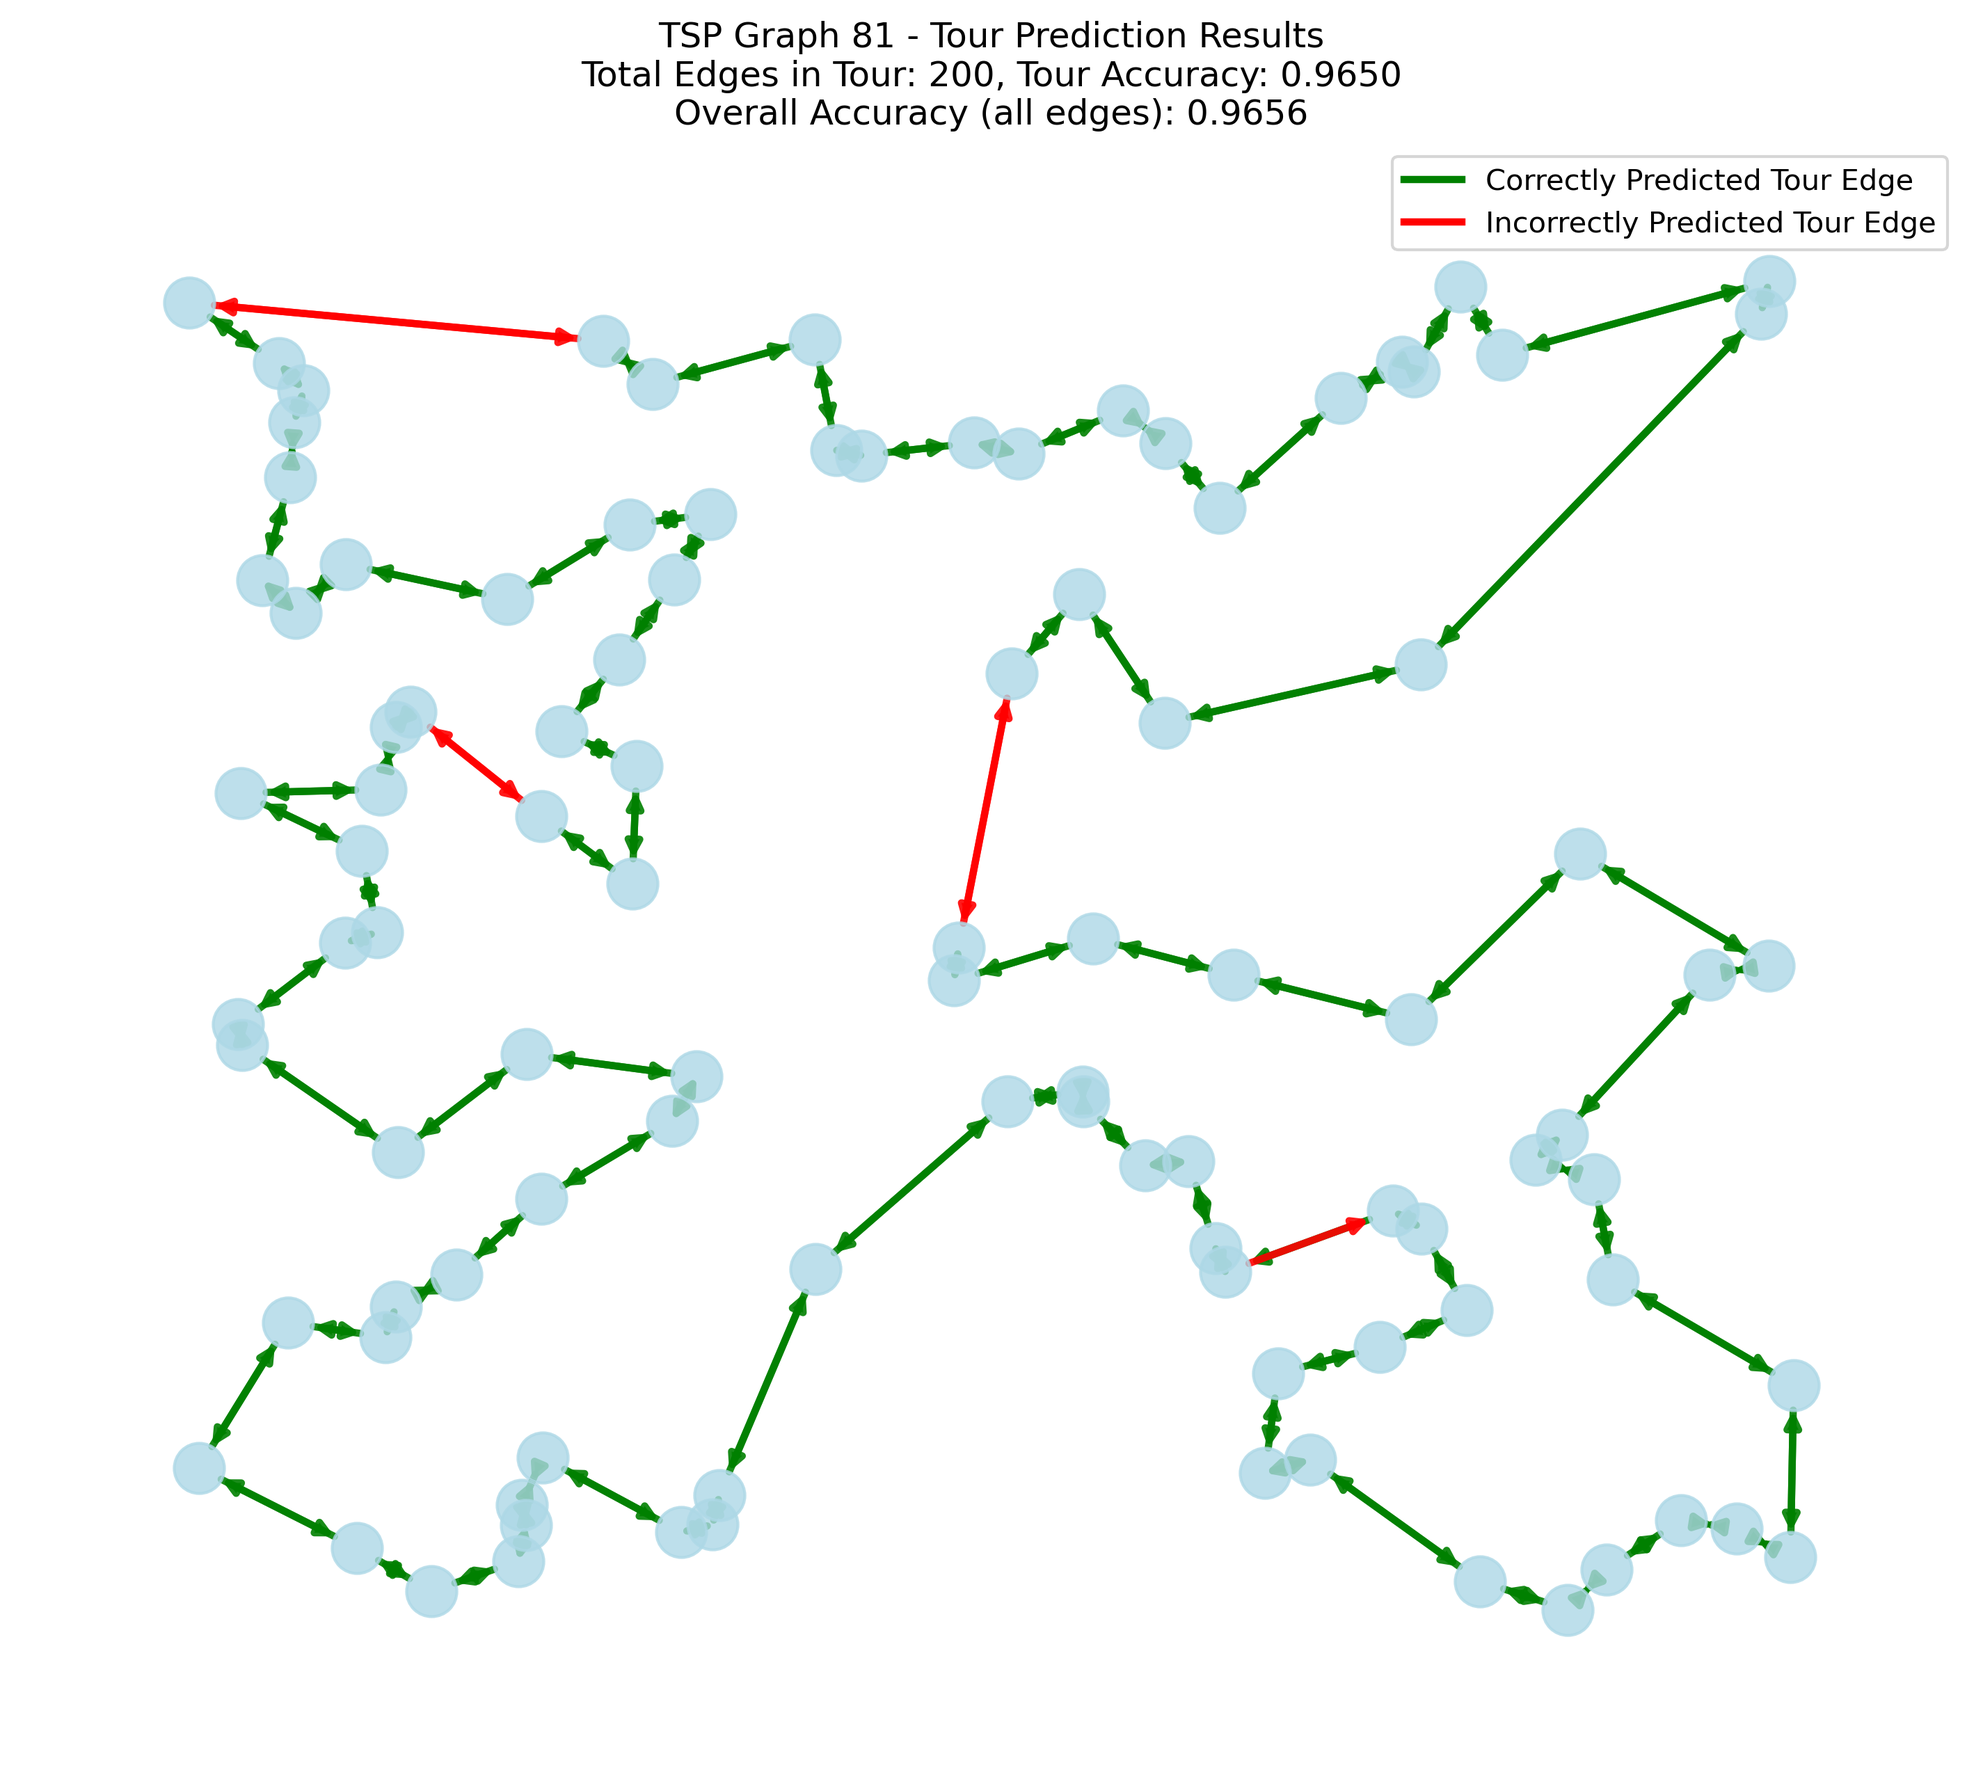
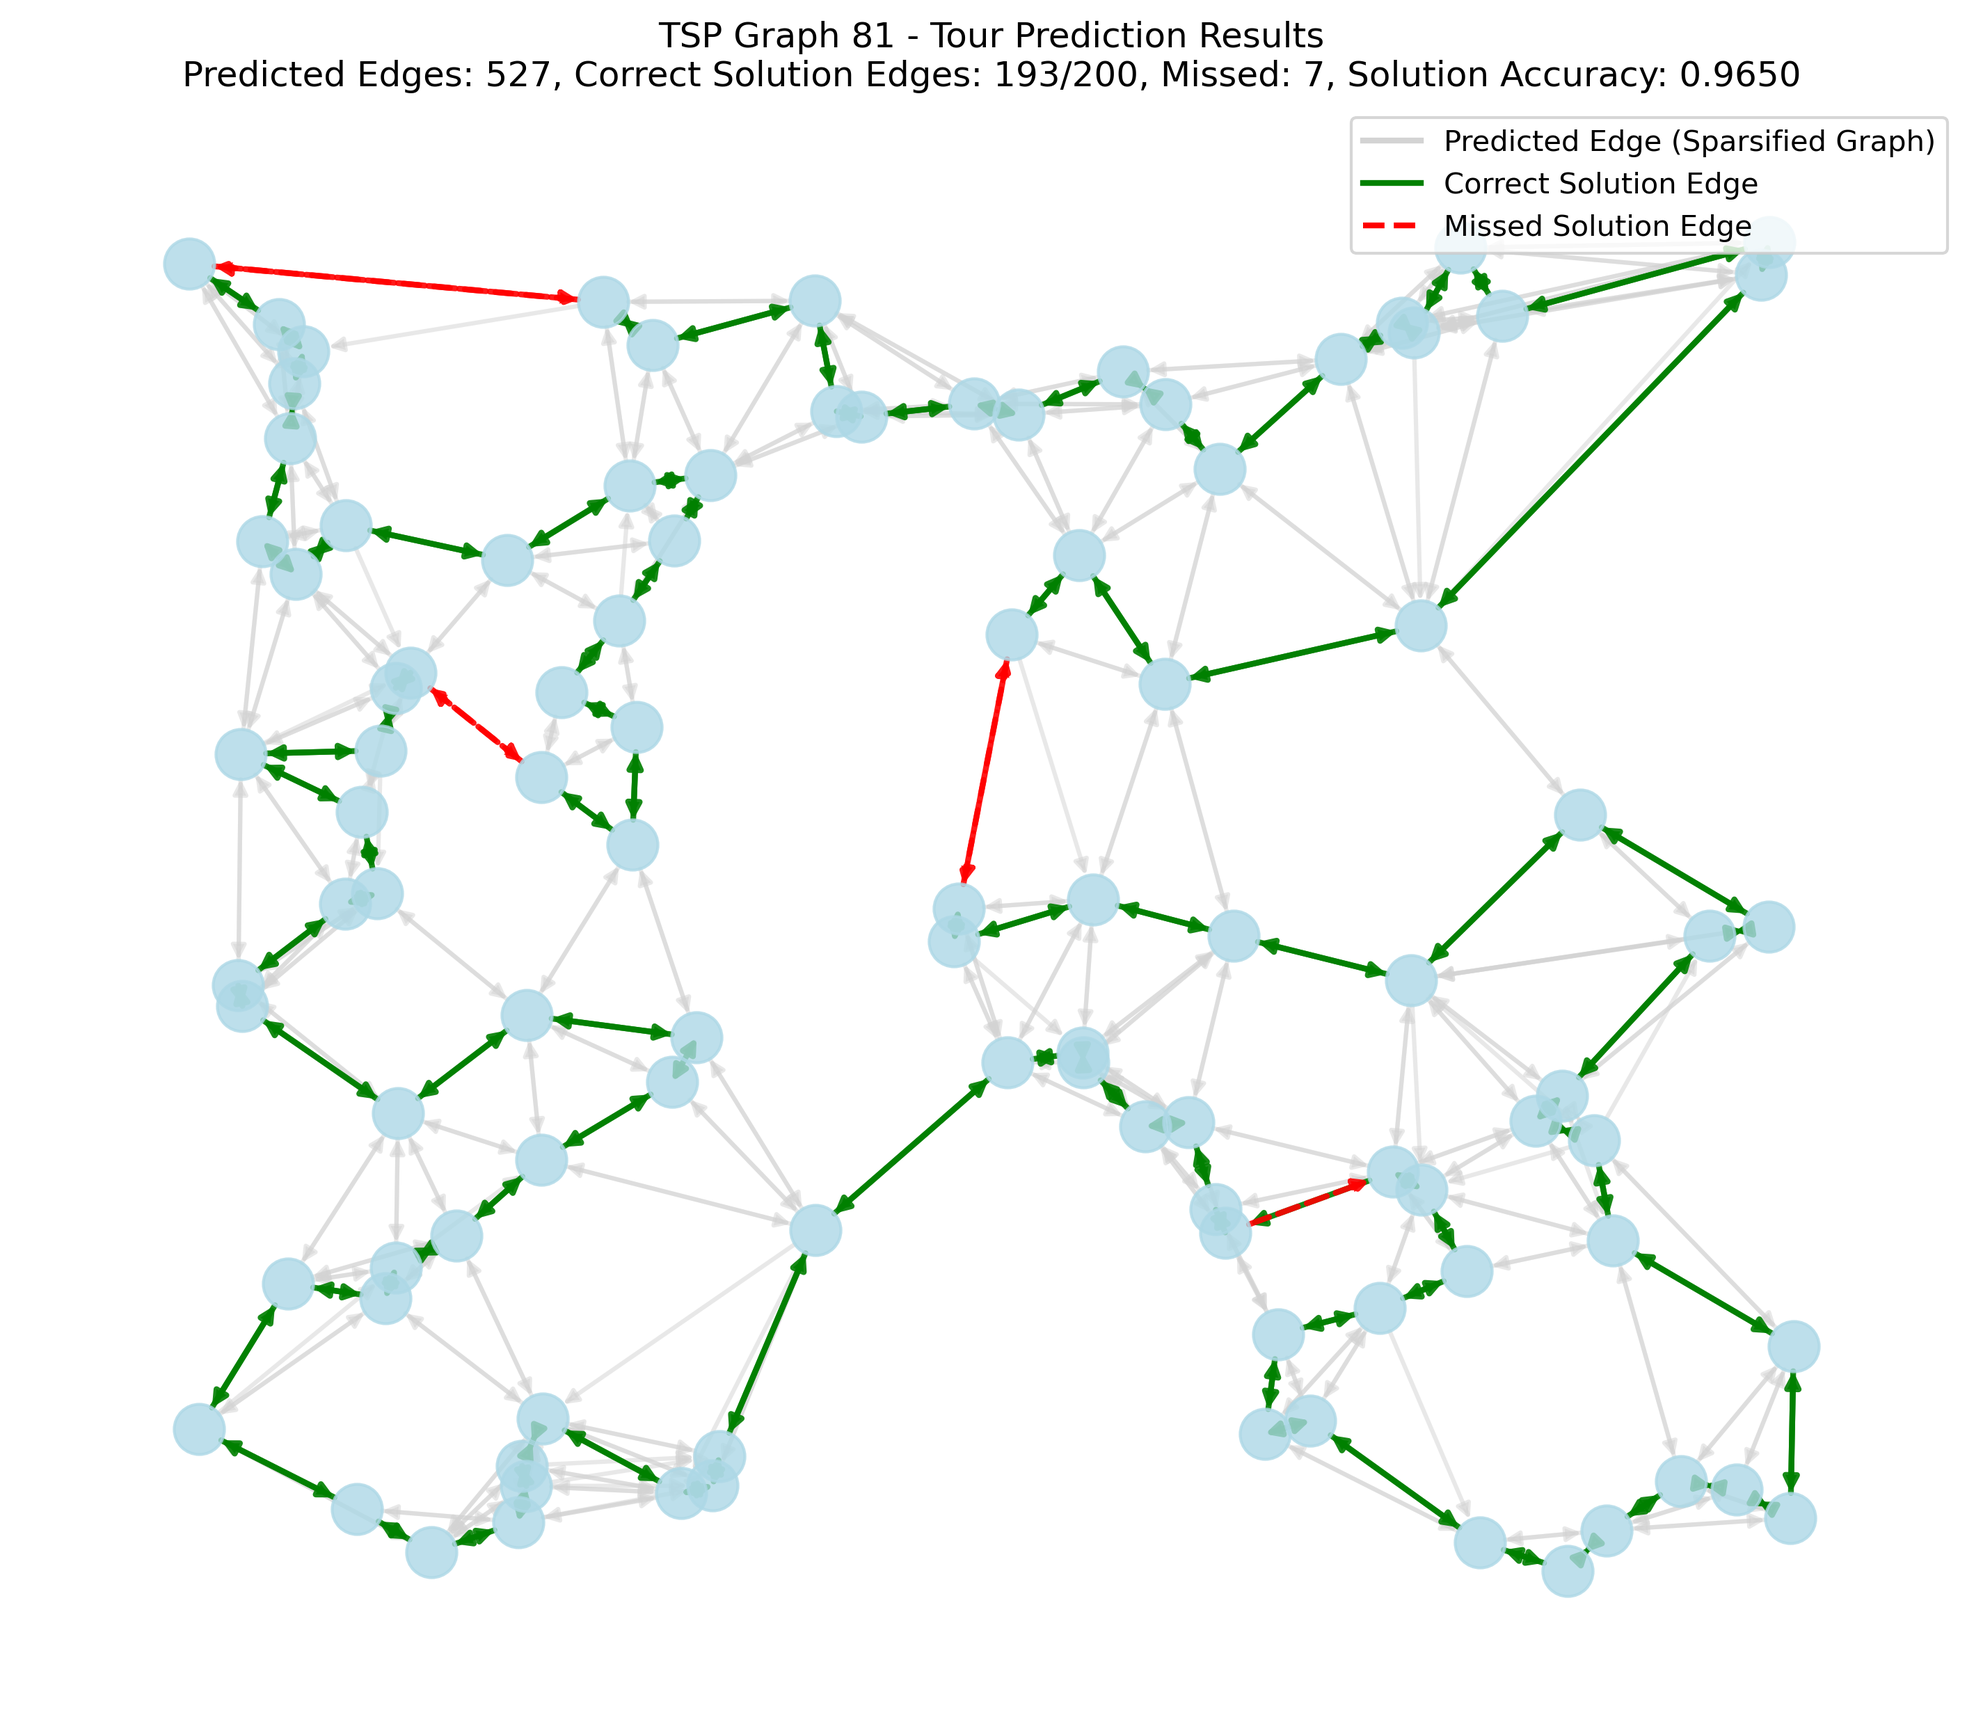
Inference works now

diff --git a/visualize_tsp_predictions.py b/visualize_tsp_predictions.py
@@ -113,8 +113,12 @@ def make_predictions(model, graph, args):
         # Prepare graph
         graph = graph.to(args.device)
         
-        # Forward pass
-        pred = model(graph)
+        # Extract node and edge features
+        h = graph.ndata['feat']
+        e = graph.edata['feat']
+        
+        # Forward pass with node and edge features
+        pred = model(graph, h, e)
         
         # Get edge predictions (binary classification)
         _, predicted = torch.max(pred, 1)
@@ -142,12 +146,14 @@ def visualize_tsp_solution(graph, edge_labels, predictions, graph_index, args):
     nx.draw_networkx_nodes(g_nx, pos, node_size=300, node_color='lightblue', alpha=0.8)
     
     # Draw edges with color coding:
-    # - Green: Predicted correctly
-    # - Red: Predicted incorrectly
+    # - Light Grey: Edges predicted as 1 (part of sparsified graph)
+    # - Green: Correctly predicted edges that are part of the actual TSP solution (label=1, pred=1)
+    # - Red: Incorrectly predicted edges that should have been part of the solution (label=1, pred=0)
     
-    # Create lists for edges based on prediction results
-    edges_correct = []
-    edges_incorrect = []
+    # Create lists for different edge categories
+    edges_predicted_as_1 = []  # All edges predicted as 1 (sparsified graph)
+    edges_correct_solution = []  # Correctly predicted edges that are part of the solution (label=1, pred=1)
+    edges_missed_solution = []  # Edges that should be in solution but were missed (label=1, pred=0)
     
     # Get original edge order to match predictions with edges
     edge_list = list(g_nx.edges())
@@ -155,36 +161,59 @@ def visualize_tsp_solution(graph, edge_labels, predictions, graph_index, args):
     for i, (u, v) in enumerate(edge_list):
         # Convert to CPU tensors
         pred = predictions[i].cpu().item()
-        label = edge_labels[i].cpu().item()
         
-        if pred == label:
-            edges_correct.append((u, v))
+        # Check if edge_labels is a tensor or numpy array and handle accordingly
+        if isinstance(edge_labels[i], torch.Tensor):
+            label = edge_labels[i].cpu().item()
         else:
-            edges_incorrect.append((u, v))
+            # Handle numpy or other types directly
+            label = edge_labels[i]
+        
+        # Edges predicted as 1 (part of sparsified graph)
+        if pred == 1:
+            edges_predicted_as_1.append((u, v))
+            
+            # If it's also part of the actual solution (label=1)
+            if label == 1:
+                edges_correct_solution.append((u, v))
+        
+        # Edges that should be in solution but were missed (label=1, pred=0)
+        elif label == 1 and pred == 0:
+            edges_missed_solution.append((u, v))
     
-    # Draw correct edges in green
-    nx.draw_networkx_edges(g_nx, pos, edgelist=edges_correct, width=1.5, alpha=0.7, edge_color='green')
+    # Draw edges predicted as 1 in light grey (sparsified graph)
+    nx.draw_networkx_edges(g_nx, pos, edgelist=edges_predicted_as_1, width=1.5, alpha=0.5, edge_color='lightgrey')
     
-    # Draw incorrect edges in red
-    nx.draw_networkx_edges(g_nx, pos, edgelist=edges_incorrect, width=1.5, alpha=0.7, edge_color='red')
+    # Draw correctly predicted solution edges in green (overwrite the grey ones)
+    nx.draw_networkx_edges(g_nx, pos, edgelist=edges_correct_solution, width=2.0, alpha=0.9, edge_color='green')
+    
+    # Draw missed solution edges in red
+    nx.draw_networkx_edges(g_nx, pos, edgelist=edges_missed_solution, width=2.0, alpha=0.9, edge_color='red', style='dashed')
     
     # Calculate metrics for this graph
-    total_edges = len(edge_list)
-    correct_edges = len(edges_correct)
-    incorrect_edges = len(edges_incorrect)
-    accuracy = correct_edges / total_edges if total_edges > 0 else 0
+    total_predicted_as_1 = len(edges_predicted_as_1)
+    total_actual_solution = sum(1 for i, _ in enumerate(edge_list) if 
+                              (isinstance(edge_labels[i], torch.Tensor) and edge_labels[i].cpu().item() == 1) or 
+                              (not isinstance(edge_labels[i], torch.Tensor) and edge_labels[i] == 1))
+    correct_solution_edges = len(edges_correct_solution)
+    missed_solution_edges = len(edges_missed_solution)
+    
+    solution_accuracy = correct_solution_edges / total_actual_solution if total_actual_solution > 0 else 0
     
     # Add a title with metrics
-    plt.title(f"TSP Graph {graph_index} - Prediction Results\n"
-              f"Total Edges: {total_edges}, Correct: {correct_edges}, "
-              f"Incorrect: {incorrect_edges}, Accuracy: {accuracy:.4f}", 
+    plt.title(f"TSP Graph {graph_index} - Tour Prediction Results\n"
+              f"Predicted Edges: {total_predicted_as_1}, "
+              f"Correct Solution Edges: {correct_solution_edges}/{total_actual_solution}, "
+              f"Missed: {missed_solution_edges}, "
+              f"Solution Accuracy: {solution_accuracy:.4f}", 
               fontsize=12)
     
     # Add legend
     from matplotlib.lines import Line2D
     legend_elements = [
-        Line2D([0], [0], color='green', lw=2, label='Correct Prediction'),
-        Line2D([0], [0], color='red', lw=2, label='Incorrect Prediction')
+        Line2D([0], [0], color='lightgrey', lw=2, label='Predicted Edge (Sparsified Graph)'),
+        Line2D([0], [0], color='green', lw=2, label='Correct Solution Edge'),
+        Line2D([0], [0], color='red', lw=2, linestyle='dashed', label='Missed Solution Edge')
     ]
     plt.legend(handles=legend_elements, loc='upper right')
     
@@ -192,14 +221,14 @@ def visualize_tsp_solution(graph, edge_labels, predictions, graph_index, args):
     plt.axis('off')
     
     # Save visualization
-    file_path = os.path.join(args.output_dir, f"tsp_graph_{graph_index}_visualization.png")
+    file_path = os.path.join(args.output_dir, f"tsp_graph_{graph_index}_tour_prediction.png")
     plt.savefig(file_path, dpi=300, bbox_inches='tight')
     print(f"Visualization saved to {file_path}")
     
     # Show the plot
     plt.show()
     
-    return accuracy, correct_edges, incorrect_edges
+    return solution_accuracy, correct_solution_edges, missed_solution_edges
 
 def create_actual_tour_visualization(graph, edge_labels, graph_index, args):
     """Create visualization of the actual TSP tour."""
@@ -224,7 +253,14 @@ def create_actual_tour_visualization(graph, edge_labels, graph_index, args):
     edge_list = list(g_nx.edges())
     tour_edges = []
     for i, (u, v) in enumerate(edge_list):
-        if edge_labels[i].cpu().item() == 1:
+        # Check if edge_labels is a tensor or numpy array and handle accordingly
+        if isinstance(edge_labels[i], torch.Tensor):
+            label = edge_labels[i].cpu().item()
+        else:
+            # Handle numpy or other types directly
+            label = edge_labels[i]
+            
+        if label == 1:
             tour_edges.append((u, v))
     
     # Draw tour edges in blue
@@ -244,6 +280,119 @@ def create_actual_tour_visualization(graph, edge_labels, graph_index, args):
     # Show the plot
     plt.show()
 
+def create_side_by_side_visualization(graph, edge_labels, predictions, graph_index, args):
+    """Create a side-by-side visualization of original graph and prediction results."""
+    # Create output directory if it doesn't exist
+    os.makedirs(args.output_dir, exist_ok=True)
+    
+    # Convert DGL graph to NetworkX for visualization
+    g_nx = graph.to_networkx(node_attrs=['feat'], edge_attrs=['feat'])
+    
+    # Get node positions from node features (x,y coordinates)
+    pos = {}
+    for node_id, node_data in g_nx.nodes(data=True):
+        pos[node_id] = node_data['feat'].cpu().numpy()
+    
+    # Create figure with two subplots side by side
+    fig, (ax1, ax2) = plt.subplots(1, 2, figsize=(24, 10))
+    fig.suptitle(f"TSP Graph {graph_index} - Original vs Prediction", fontsize=16)
+    
+    # Get original edge order to match predictions with edges
+    edge_list = list(g_nx.edges())
+    
+    # Prepare edge categories for prediction visualization
+    edges_predicted_as_1 = []  # All edges predicted as 1 (sparsified graph)
+    edges_correct_solution = []  # Correctly predicted edges that are part of the solution (label=1, pred=1)
+    edges_missed_solution = []  # Edges that should be in solution but were missed (label=1, pred=0)
+    
+    # Get tour edges for original visualization
+    tour_edges = []
+    
+    print(f"very very important {len(edge_list)}")
+    for i, (u, v) in enumerate(edge_list):
+        # Convert to CPU tensors
+        pred = predictions[i].cpu().item()
+        
+        # Check if edge_labels is a tensor or numpy array and handle accordingly
+        if isinstance(edge_labels[i], torch.Tensor):
+            label = edge_labels[i].cpu().item()
+        else:
+            # Handle numpy or other types directly
+            label = edge_labels[i]
+        
+        # For original graph - identify tour edges
+        if label == 1:
+            tour_edges.append((u, v))
+        
+        # For prediction graph - categorize edges
+        if pred == 1:
+            edges_predicted_as_1.append((u, v))
+            if label == 1:
+                edges_correct_solution.append((u, v))
+        elif label == 1 and pred == 0:
+            edges_missed_solution.append((u, v))
+    
+    # Calculate metrics
+    total_predicted_as_1 = len(edges_predicted_as_1)
+    total_actual_solution = len(tour_edges)
+    correct_solution_edges = len(edges_correct_solution)
+    missed_solution_edges = len(edges_missed_solution)
+    solution_accuracy = correct_solution_edges / total_actual_solution if total_actual_solution > 0 else 0
+    
+    # ORIGINAL GRAPH (LEFT SUBPLOT)
+    # Draw nodes
+    nx.draw_networkx_nodes(g_nx, pos, node_size=300, node_color='lightblue', alpha=0.8, ax=ax1)
+    
+    # Draw all edges in light grey
+    nx.draw_networkx_edges(g_nx, pos, width=1.0, alpha=0.3, edge_color='lightgrey', ax=ax1)
+    
+    # Draw tour edges in blue
+    nx.draw_networkx_edges(g_nx, pos, edgelist=tour_edges, width=2.0, alpha=0.9, edge_color='blue', ax=ax1)
+    
+    # Set title for original graph
+    ax1.set_title(f"Original Graph with TSP Tour\nTour Length: {total_actual_solution} edges", fontsize=12)
+    ax1.axis('off')
+    
+    # PREDICTION GRAPH (RIGHT SUBPLOT)
+    # Draw nodes
+    nx.draw_networkx_nodes(g_nx, pos, node_size=300, node_color='lightblue', alpha=0.8, ax=ax2)
+    
+    # Draw edges predicted as 1 in light grey (sparsified graph)
+    nx.draw_networkx_edges(g_nx, pos, edgelist=edges_predicted_as_1, width=1.5, alpha=0.5, edge_color='lightgrey', ax=ax2)
+    
+    # Draw correctly predicted solution edges in green
+    nx.draw_networkx_edges(g_nx, pos, edgelist=edges_correct_solution, width=2.0, alpha=0.9, edge_color='green', ax=ax2)
+    
+    # Draw missed solution edges in red
+    nx.draw_networkx_edges(g_nx, pos, edgelist=edges_missed_solution, width=2.0, alpha=0.9, edge_color='red', style='dashed', ax=ax2)
+    
+    # Set title for prediction graph
+    ax2.set_title(f"Prediction Results\nPredicted Edges: {total_predicted_as_1}, Correct: {correct_solution_edges}/{total_actual_solution}, Missed: {missed_solution_edges}\nSolution Accuracy: {solution_accuracy:.4f}", fontsize=12)
+    ax2.axis('off')
+    
+    # Add legend
+    from matplotlib.lines import Line2D
+    legend_elements = [
+        Line2D([0], [0], color='blue', lw=2, label='Actual Tour Edge'),
+        Line2D([0], [0], color='lightgrey', lw=2, label='Predicted Edge'),
+        Line2D([0], [0], color='green', lw=2, label='Correct Prediction'),
+        Line2D([0], [0], color='red', lw=2, linestyle='dashed', label='Missed Edge')
+    ]
+    fig.legend(handles=legend_elements, loc='lower center', ncol=4, fontsize=12, bbox_to_anchor=(0.5, 0.02))
+    
+    # Adjust layout
+    plt.tight_layout(rect=[0, 0.05, 1, 0.95])
+    
+    # Save visualization
+    file_path = os.path.join(args.output_dir, f"tsp_graph_{graph_index}_side_by_side.png")
+    plt.savefig(file_path, dpi=300, bbox_inches='tight')
+    print(f"Side-by-side visualization saved to {file_path}")
+    
+    # Show the plot
+    plt.show()
+    
+    return solution_accuracy, correct_solution_edges, missed_solution_edges
+
 def main():
     """Main function."""
     args = parse_args()
@@ -260,15 +409,12 @@ def main():
     # Make predictions
     predictions = make_predictions(model, graph, args)
     
-    # First create visualization of actual tour
-    create_actual_tour_visualization(graph, edge_labels, graph_index, args)
-    
-    # Visualize predictions with color-coded edges
-    accuracy, correct_edges, incorrect_edges = visualize_tsp_solution(
+    # Create side-by-side visualization
+    accuracy, correct_edges, missed_edges = create_side_by_side_visualization(
         graph, edge_labels, predictions, graph_index, args)
     
     print(f"Graph {graph_index} prediction accuracy: {accuracy:.4f}")
-    print(f"Correct edges: {correct_edges}, Incorrect edges: {incorrect_edges}")
+    print(f"Correct edges: {correct_edges}, Missed edges: {missed_edges}")
 
 if __name__ == "__main__":
     main()

diff --git a/data/tsp_dataset.py b/data/tsp_dataset.py
@@ -105,10 +105,9 @@ class TSP(Dataset):
         # Edge adjacency matrix representation of tour
         edges_target = np.zeros((num_nodes, num_nodes), dtype=np.int32)
         edges_target[tour_nodes[:-1], tour_nodes[1:]] = 1
-        edges_target[tour_nodes[1:], tour_nodes[:-1]] = 1
         edges_target[tour_nodes[-1], tour_nodes[0]] = 1
+        edges_target[tour_nodes[1:], tour_nodes[:-1]] = 1
         edges_target[tour_nodes[0], tour_nodes[-1]] = 1
-
         # Global max and min weights
         global_max_weight = distances.max()
         global_min_weight = max(distances.min(), 1e-9)
